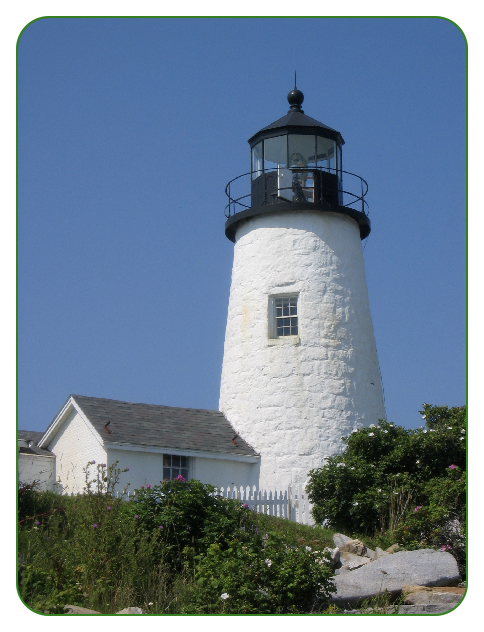
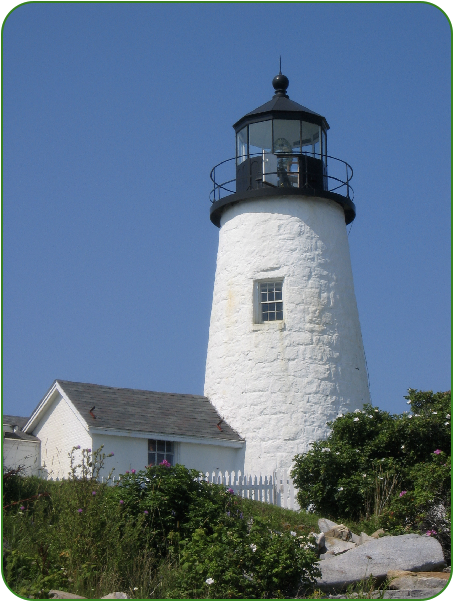
Update README.md.

diff --git a/README.md b/README.md
@@ -193,7 +193,7 @@ The default thickness is 1. Style options include "solid" (the default), "dashed
 </stack-panel>
 ```
 
-<img src="README/border.png" width="242px"/>
+<img src="README/border.png" width="227px"/>
 
 Padding values for multiple sides can be specified in _top_, _left_, _bottom_, _right_ order:
 